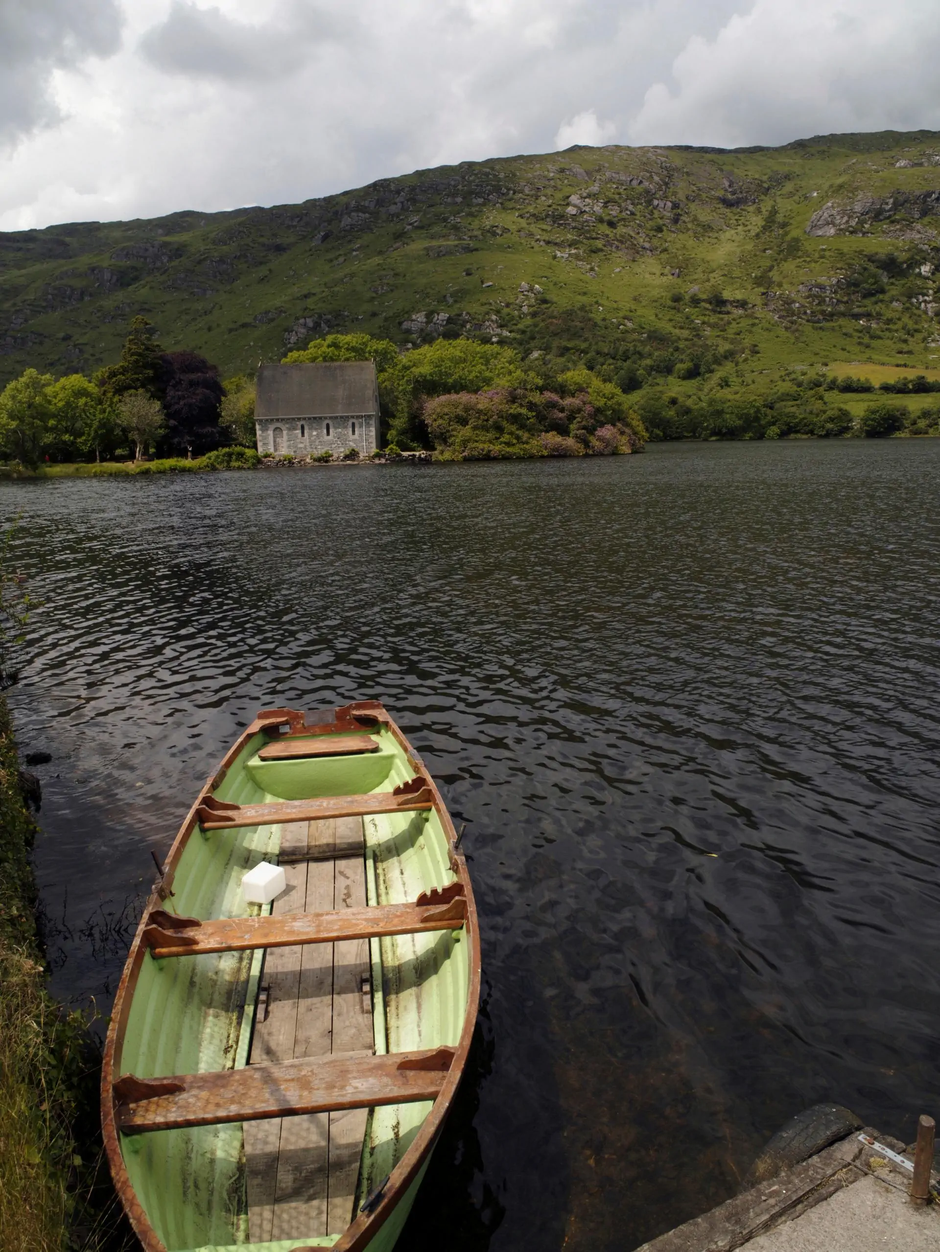
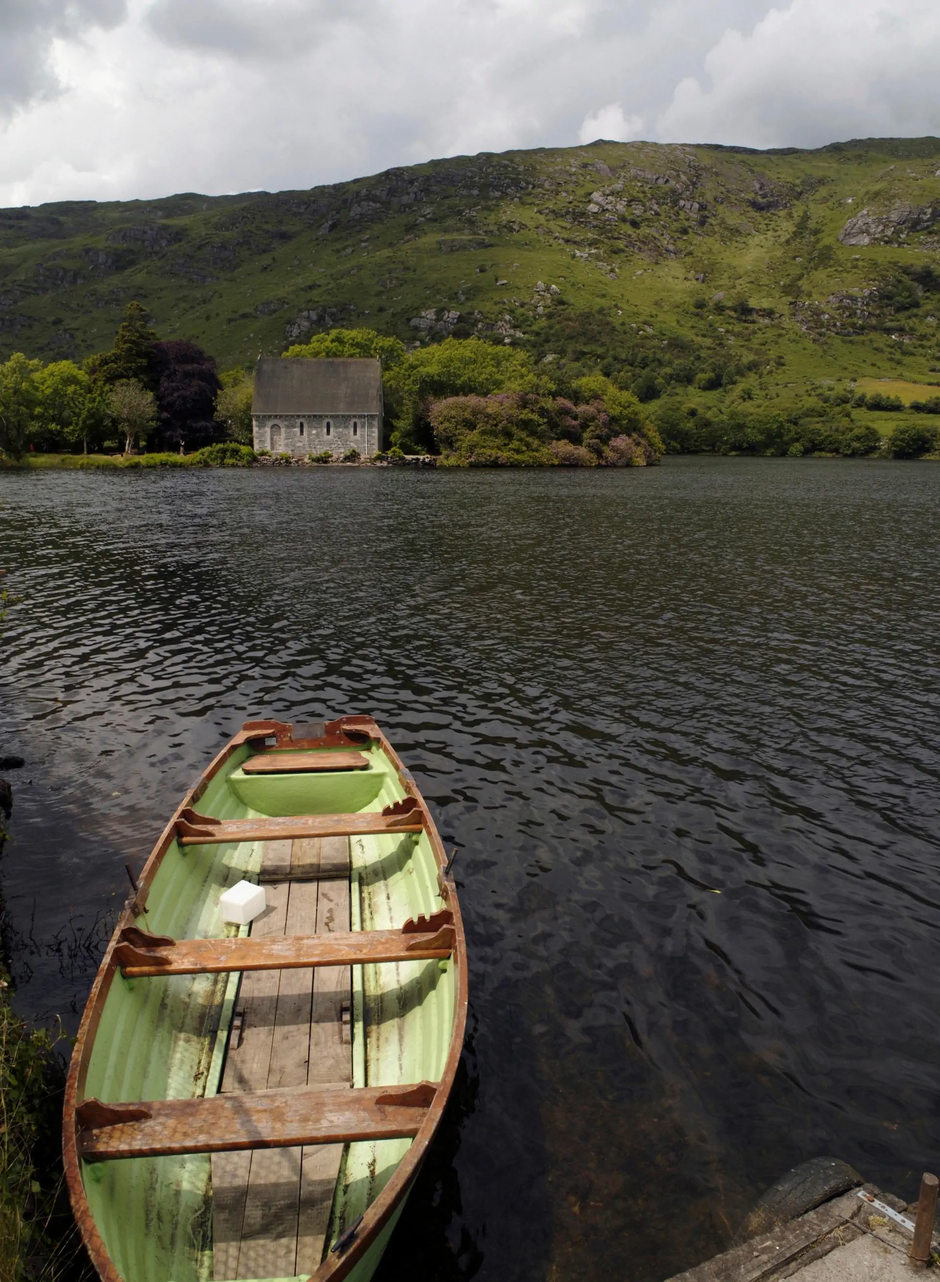
Adds landscape and portrait Hero bg images

diff --git a/tailwind.config.js b/tailwind.config.js
@@ -8,21 +8,49 @@ module.exports = {
     },
     extend: {
       backgroundImage: () => ({
-        doonagoreXXL:
+        heroLandscapeXXL:
           "url('/img/xxl/david-creedon-boating-fishing-gouganebarra-lake-gougane-forest-park-co-cork-ireland-2400w.jpg')",
-        doonagoreXL:
+        heroLandscapeXL:
           "url('/img/xl/david-creedon-boating-fishing-gouganebarra-lake-gougane-forest-park-co-cork-ireland-1920w.jpg')",
-        doonagoreLG:
+        heroLandscapeLG:
           "url('/img/lg/david-creedon-boating-fishing-gouganebarra-lake-gougane-forest-park-co-cork-ireland-1536w.jpg')",
-        doonagoreMD:
+        heroLandscapeMD:
           "url('/img/md/david-creedon-boating-fishing-gouganebarra-lake-gougane-forest-park-co-cork-ireland-1280w.jpg')",
-        doonagoreSM:
+        heroLandscapeSM:
           "url('/img/sm/david-creedon-boating-fishing-gouganebarra-lake-gougane-forest-park-co-cork-ireland-800w.jpg')",
-        doonagoreXS:
+        heroLandscapeXS:
           "url('/img/xs/david-creedon-boating-fishing-gouganebarra-lake-gougane-forest-park-co-cork-ireland-500w.jpg')",
-        doonagoreXXS:
+        heroLandscapeXXS:
           "url('/img/xxs/david-creedon-boating-fishing-gouganebarra-lake-gougane-forest-park-co-cork-ireland-300w.jpg')",
+        heroPortraitXXL:
+          "url('/img/xxl/chris-hill-currach-boat-gouganebarra-lake-st-finbarrs-oratory-gougane-barra-co-cork-ireland-2400w.jpg')",
+        heroPortraitXL:
+          "url('/img/xl/chris-hill-currach-boat-gouganebarra-lake-st-finbarrs-oratory-gougane-barra-co-cork-ireland-1920w.jpg')",
+        heroPortraitLG:
+          "url('/img/lg/chris-hill-currach-boat-gouganebarra-lake-st-finbarrs-oratory-gougane-barra-co-cork-ireland-1536w.jpg')",
+        heroPortraitMD:
+          "url('/img/md/chris-hill-currach-boat-gouganebarra-lake-st-finbarrs-oratory-gougane-barra-co-cork-ireland-1280w.jpg')",
+        heroPortraitSM:
+          "url('/img/sm/chris-hill-currach-boat-gouganebarra-lake-st-finbarrs-oratory-gougane-barra-co-cork-ireland-800w.jpg')",
+        heroPortraitXS:
+          "url('/img/xs/chris-hill-currach-boat-gouganebarra-lake-st-finbarrs-oratory-gougane-barra-co-cork-ireland-500w.jpg')",
+        heroPortraitXXS:
+          "url('/img/xxs/chris-hill-currach-boat-gouganebarra-lake-st-finbarrs-oratory-gougane-barra-co-cork-ireland-300w.jpg')",
       }),
+      minHeight: {
+        0: '0',
+        '1/4': '25vh',
+        '2/5': '40vh',
+        '1/2': '50vh',
+        '3/5': '60vh',
+        '3/4': '75vh',
+        '9/10': '90vh',
+        full: '100%',
+      },
+      screens: {
+        landscape: { raw: '(orientation: landscape)' },
+        portrait: { raw: '(orientation: portrait)' },
+      },
       zIndex: {
         '-1': '-1',
         '-2': '-2',
@@ -34,16 +62,6 @@ module.exports = {
         '-8': '-8',
         '-9': '-9',
         '-10': '-10',
-      },
-      minHeight: {
-        0: '0',
-        '1/4': '25vh',
-        '2/5': '40vh',
-        '1/2': '50vh',
-        '3/5': '60vh',
-        '3/4': '75vh',
-        '9/10': '90vh',
-        full: '100%',
       },
     },
   },

diff --git a/pages/index.tsx b/pages/index.tsx
@@ -1,3 +1,5 @@
+import { isMobile } from 'react-device-detect'
+
 import Color from 'color'
 
 import { GetStaticProps } from 'next'
@@ -51,7 +53,7 @@ const IndexPage = ({
       maskIconColor={new Color(maskIconColor)}
     />
     <Hero
-      backgroundImage="bg-doonagoreXS sm:bg-doonagoreSM md:bg-doonagoreMD lg:bg-doonagoreLG xl:bg-doonagoreXL 2xl:bg-doonagoreXXL"
+      backgroundImage="portrait:bg-heroPortraitXS portrait:sm:bg-heroPortraitSM portrait:md:bg-heroPortraitMD portrait:lg:bg-heroPortraitLG portrait:xl:bg-heroPortraitXL portrait:2xl:bg-heroPortraitXXL landscape:bg-heroLandscapeXS landscape:sm:bg-heroLandscapeSM landscape:md:bg-heroLandscapeMD landscape:lg:bg-heroLandscapeLG landscape:xl:bg-heroLandscapeXL landscape:2xl:bg-heroLandscapeXXL"
       title={heroTitle}
       speel={<span>{speel}</span>}
       cta={cta}

diff --git a/components/ui/Heroes/Hero.tsx b/components/ui/Heroes/Hero.tsx
@@ -7,7 +7,7 @@ type Props = {
 }
 
 const Hero = ({ backgroundImage, title, highlighted, speel, cta }: Props) => (
-  <div className={backgroundImage + ' min-h-screen hero '}>
+  <div className={backgroundImage + ' min-h-screen hero'}>
     <div className="hero-overlay bg-opacity-60"></div>
     <div className="text-center hero-content text-neutral-content">
       <div className="max-w-md">
